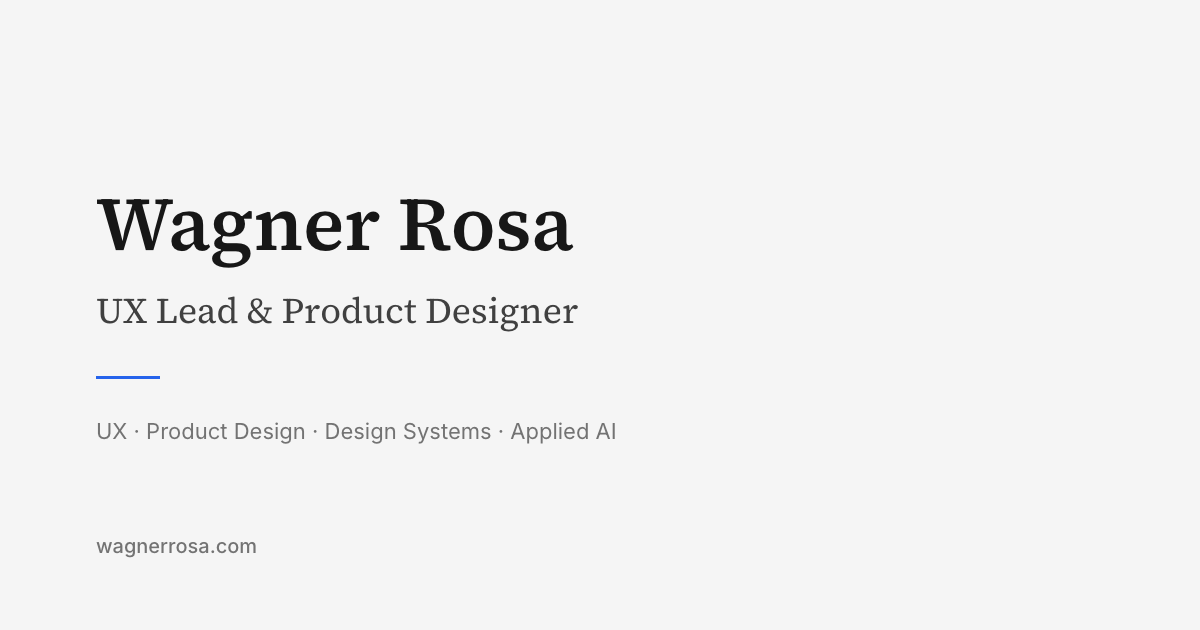
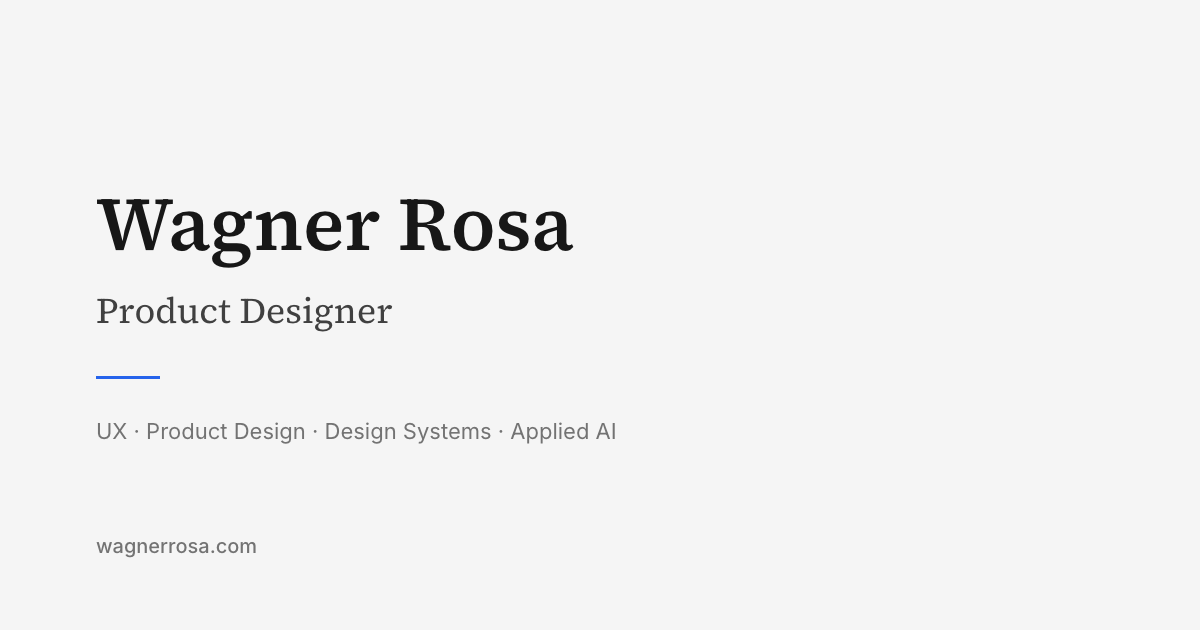
feat(seo): position as Product Designer, UX Lead only as the current role
Titles, descriptions, hero lede, Person jobTitle, llms.txt and the OG image say
Product Designer. UX Lead at Nelogica stays as the current job. The CV page
also opens its PDF in a new tab.

Changed region(s): [[0.0617, 0.4524, 0.4933, 0.5429]]

diff --git a/src/data/site.ts b/src/data/site.ts
@@ -7,7 +7,7 @@ export const abs = (path: string) => new URL(path, SITE_URL).href;
 export const site = {
   name: 'Wagner Rosa',
   fullName: 'Wagner da Rosa de Souza', // only About description + Person alternateName (positioning/decisions.md)
-  title: 'UX Lead & Product Designer',
+  title: 'Product Designer',
   hubRole: 'Product Designer',   // the short line under the name on the wheel (the full title stays in titles and JSON-LD)
   email: 'contato@wagnerrosa.com',
   place: 'Porto Alegre, Brazil',
@@ -18,7 +18,7 @@ export const site = {
   clarity: 'vhbu1gthme',
   ogImage: '/assets/og/og-default.png',
   ogImageVersion: '20261002',
-  ogImageAlt: 'Wagner Rosa — UX Lead & Product Designer. UX, Product Design, Design Systems, Applied AI.',
+  ogImageAlt: 'Wagner Rosa — Product Designer. UX, Product Design, Design Systems, Applied AI.',
   avatar: '/assets/wagnerrosa-picture.jpg',
   cv: {
     pdf: '/assets/cv/Wagner-Rosa-CV-oct2026.pdf',
@@ -36,7 +36,7 @@ export const profiles = [
 
 export const hero = {
   lines: ['I design products.', 'I prototype in code.', 'I help teams ship.'],
-  lede: 'UX Lead & Product Designer with 10+ years turning complex products, business logic and AI-powered workflows into clear interfaces and shipped experiences.',
+  lede: 'Product Designer with 10+ years turning complex products, business logic and AI-powered workflows into clear interfaces and shipped experiences.',
   now: 'UX Lead at Nelogica',
 };
 
@@ -57,8 +57,8 @@ export const person = {
   '@id': `${SITE_URL}/#person`,
   name: site.name,
   alternateName: site.fullName,
-  jobTitle: 'UX Lead',
-  description: 'UX Lead at Nelogica and product designer working on complex financial products, design systems, AI and prototyping in code.',
+  jobTitle: 'Product Designer',
+  description: 'Product Designer, currently UX Lead at Nelogica, working on complex financial products, design systems, AI and prototyping in code.',
   url: `${SITE_URL}/`,
   image: abs(site.avatar),
   email: site.email,

diff --git a/src/lib/model.ts b/src/lib/model.ts
@@ -40,7 +40,7 @@ export async function getModel() {
   const hubCases = cases.filter(c => c.data.hub);
 
   const items: WheelItem[] = [
-    { id: 'index', kind: 'home', label: 'Home', tag: 'Hello', level: 0, url: '/', page: 'index', title: 'Wagner Rosa — UX Lead & Product Designer' },
+    { id: 'index', kind: 'home', label: 'Home', tag: 'Hello', level: 0, url: '/', page: 'index', title: 'Wagner Rosa — Product Designer' },
     ...work.map<WheelItem>(w => ({
       id: w.id, kind: 'work', label: w.data.label, tag: w.data.tag, level: 1, url: `/#${w.id}`, page: 'index',
       title: `${w.data.title ?? w.data.label} · Wagner Rosa`,
@@ -52,7 +52,7 @@ export async function getModel() {
       ...(c.data.external ? { external: c.data.external } : { read: caseUrl(c.id) }),
       ...(c.data.protected ? { locked: true } : {}),
     })),
-    { id: 'about', kind: 'about', label: 'About', tag: 'Background', level: 0, url: '/about.html', page: 'about', title: 'About Wagner Rosa | UX Lead & Product Designer' },
+    { id: 'about', kind: 'about', label: 'About', tag: 'Background', level: 0, url: '/about.html', page: 'about', title: 'About Wagner Rosa | Product Designer' },
     { id: 'contact', kind: 'contact', label: 'Contact', tag: 'Say hi', level: 0, url: '/#contact', page: 'index', title: 'Contact · Wagner Rosa' },
   ];
   return { items, work, cases, wheelCases, hubCases };

diff --git a/src/pages/llms.txt.ts b/src/pages/llms.txt.ts
@@ -13,7 +13,7 @@ export const GET: APIRoute = async () => {
 
   const body = `# ${site.name}
 
-> UX Lead and Product Designer based in ${site.place} (${site.timezone}). Currently UX Lead at Nelogica, leading a team of 5 UX Designers on financial and trading platforms. Previously Senior Product Designer at Planton and Art Director at Sistema FIERGS. Works across product design, design systems, AI-powered workflows and design-to-code. Open to remote Product Design opportunities.
+> Product Designer based in ${site.place} (${site.timezone}). Currently UX Lead at Nelogica, leading a team of 5 UX Designers on financial and trading platforms. Previously Senior Product Designer at Planton and Art Director at Sistema FIERGS. Works across product design, design systems, AI-powered workflows and design-to-code. Open to remote Product Design opportunities.
 
 ## About
 

diff --git a/scripts/og-template.html b/scripts/og-template.html
@@ -58,7 +58,7 @@
 </head>
 <body>
   <div class="name">Wagner Rosa</div>
-  <div class="role">UX Lead &amp; Product Designer</div>
+  <div class="role">Product Designer</div>
   <div class="rule"></div>
   <div class="skills">UX · Product Design · Design Systems · Applied AI</div>
   <div class="domain">wagnerrosa.com</div>
